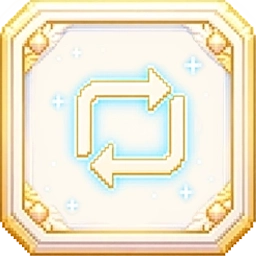
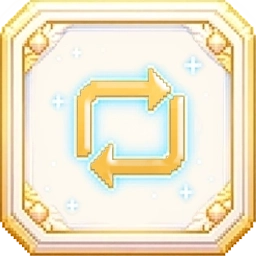
Refresh theme colors and progression typography

Changed region(s): [[0.2812, 0.2812, 0.7188, 0.7188]]

diff --git a/style.css b/style.css
@@ -4459,6 +4459,7 @@ body.piano-app-page[data-page="piano"][data-theme="dark"] .progressions-list-car
   color: var(--pv-muted);}body.piano-app-page[data-page="piano"].is-home-progressions-mode .keyboard-legend {
   justify-self: start;}body.piano-app-page[data-page="piano"].is-home-progressions-mode .keyboard-legend [data-home-progression-step-label] {
   font-family: "Anaheim", "Pontano Sans", Arial, Helvetica, sans-serif;
+  font-weight: 700;
   text-transform: none;}body.piano-app-page[data-page="piano"][data-theme="dark"].is-home-progressions-mode .keyboard-legend [data-home-progression-step-label] {
   color: #ff68c8;}body.piano-app-page[data-page="piano"].is-home-progressions-mode .progression-songs-fields {
   display: grid;
@@ -6892,7 +6893,7 @@ body.piano-app-page[data-page="piano"].is-home-progressions-mode .progression-sc
   display: none;
 }
 body.piano-app-page[data-page="piano"].is-home-progressions-mode .progression-scale-options button {
-  min-height: 1.32rem;
+  min-height: 1.6rem;
   padding: 0.12rem 0.22rem;
   font-size: 0.68rem;
 }
@@ -6911,6 +6912,13 @@ body.piano-app-page[data-page="piano"][data-theme="dark"].is-home-progressions-m
   border-color: #a73dff;
 }
 
+@media (min-width: 768px) {
+  body.piano-app-page[data-page="piano"].is-home-progressions-mode .progression-option-select-wrap .progression-chord-mode-options {
+    top: auto;
+    bottom: calc(100% + 0.18rem);
+  }
+}
+
 @media (max-width: 767px), (max-width: 932px) and (max-height: 430px) and (orientation: landscape) and (hover: none) and (pointer: coarse) {
   body.piano-app-page[data-page="piano"].is-home-progressions-mode .progression-option-select-wrap .progression-chord-mode-options {
     top: auto;
@@ -6926,6 +6934,10 @@ body.piano-app-page[data-page="piano"][data-theme="dark"].is-home-progressions-m
   body.piano-app-page[data-page="piano"].is-home-progressions-mode [data-progression-formula],
   body.piano-app-page[data-page="piano"].is-home-progressions-mode [data-progression-chords],
   body.piano-app-page[data-page="piano"].is-home-progressions-mode [data-home-progression-scale] {
+    font-size: 0.85rem;
+  }
+
+  body.piano-app-page[data-page="piano"].is-home-progressions-mode .progression-summary-card .scale-line {
     font-size: 0.85rem;
   }
 }
@@ -7082,4 +7094,10 @@ body.piano-app-page[data-page="piano"][data-theme="dark"] .selector-panel {
   body.piano-app-page[data-page="piano"][data-theme="dark"] .selector-panel {
     animation: none;
   }
+}
+
+body.piano-app-page[data-page="piano"] .scale-line,
+body.piano-app-page[data-page="piano"] .formula-line,
+body.piano-app-page[data-page="piano"] [data-progression-chords] {
+  font-weight: 700;
 }

diff --git a/holy-theme.css b/holy-theme.css
@@ -5,9 +5,9 @@ html:has(body.piano-app-page[data-page="piano"][data-theme="holy"]) {
 
 body.piano-app-page[data-page="piano"][data-theme="holy"] {
   --bg: #52bcfe;
-  --panel: #c9a84c;
-  --panel-warm: #fde7b0;
-  --panel-strong: #ebd7a1;
+  --panel: #fdba00;
+  --panel-warm: #ffca45;
+  --panel-strong: #ffd86f;
   --text: #17364F;
   --text-strong: #0F2E48;
   --muted: #75675A;
@@ -18,10 +18,11 @@ body.piano-app-page[data-page="piano"][data-theme="holy"] {
   --accent-strong: #E49A16;
   --accent-deep: #B96F00;
   --accent-glow: #FFE89A;
-  --button-bg: #FFFDF7;
+  --border-color: #e2a91f;
+  --button-bg: #f7e5b1;
   --button-hover-bg: #FFF1C4;
-  --button-border: #F3C65B;
-  --button-text: #4E3A2A;
+  --button-border: #dd9c00;
+  --button-text: #714d33;
   --active-bg: #238DFF;
   --active-text: #FFFFFF;
   --active-border: #FFD35A;

diff --git a/blessed-theme.css b/blessed-theme.css
@@ -21,7 +21,7 @@ body.piano-app-page[data-page="piano"][data-theme="blessed"] {
   --button-bg: #FFF7FC;
   --button-hover-bg: #FDE2EE;
   --button-border: #F9A4CB;
-  --button-text: #813F4A;
+  --button-text: #710a1b;
   --active-bg: #E83D8C;
   --active-text: #FFFFFF;
   --active-border: #F998C6;
@@ -104,7 +104,7 @@ body.piano-app-page[data-page="piano"][data-theme="blessed"]::before {
 body.piano-app-page[data-page="piano"][data-theme="blessed"] .home-cosmos {
   background:
     url("assets/themes/blessed/blessed-banner-bg.webp") center top / min(100vw, 1440px) auto no-repeat,
-    linear-gradient(180deg, #f99bcb 0%, #f7cae0 58%, #fdf2f6 100%);
+    linear-gradient(180deg, #f893c9 0%, #eb68a7 58%, #f14591 100%);
 }
 
 body.piano-app-page[data-page="piano"][data-theme="blessed"] .home-cosmos-stars {

diff --git a/home-cosmos.css b/home-cosmos.css
@@ -42,7 +42,7 @@ body.piano-app-page[data-page="piano"][data-theme="dark"] .home-cosmos {
 body.piano-app-page[data-page="piano"][data-theme="dark"] .home-cosmos {
   background-image:
     url("assets/themes/dark/dark-banner-bg.webp"),
-    linear-gradient(179deg, #020320 0%, #030216 50%, #000003 100%);
+    linear-gradient(179deg, #0f0125 0%, #040231 50%, #0b0218 100%);
   background-position: center top, center;
   background-repeat: no-repeat, no-repeat;
   background-size: min(100vw, 1440px) auto, cover;}body.home-dashboard-page .home-cosmos::before,